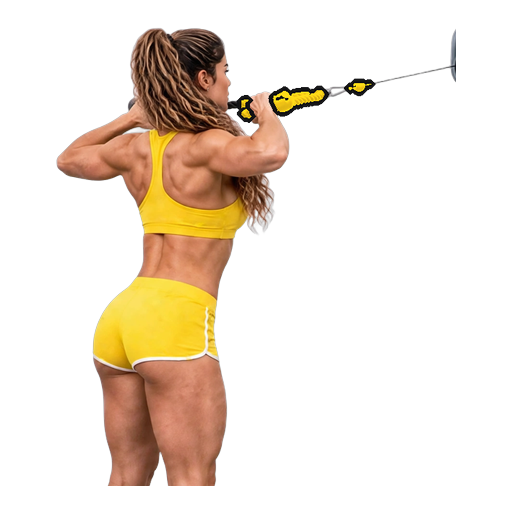
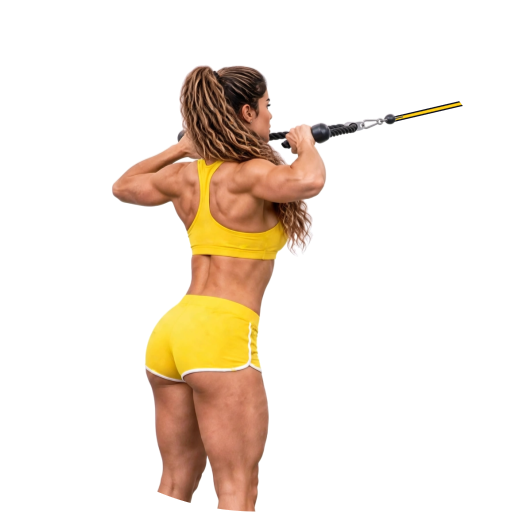
1.8.61 : Tirage facial refait, Développé militaire arrondi en bas
Claude-Session: https://claude.ai/code/session_01D2bERS9HLrYDfbmYJhTd1N

Changed region(s): [[0.0938, 0.0312, 0.9062, 1.0], [0.7812, 0.0625, 0.9062, 0.1562]]

diff --git a/sw.js b/sw.js
@@ -4,7 +4,7 @@
 // APP_VERSION doit être incrémenté à chaque release (en même temps que
 // manifest.json) : le navigateur ne réinstalle le service worker que si
 // le contenu de ce fichier change.
-const APP_VERSION = '1.8.60';
+const APP_VERSION = '1.8.61';
 // 1.7.64 (co-auteur : Claude) : production (…/suivi-fitness/) et test (…/suivi-fitness/dev/) sont sur le même
 // domaine et partagent le stockage des caches : chaque version nomme ses caches d'après son dossier et ne
 // supprime que les siens (plus les anciens caches sans dossier, d'avant la 1.7.64).

diff --git a/CHANGELOG.md b/CHANGELOG.md
@@ -7,6 +7,13 @@ et ce projet respecte [Semantic Versioning](https://semver.org/spec/v2.0.0.html)
 
 ---
 
+## [1.8.61] - 2026-11-19
+### 🎨 Icônes : Tirage facial refait, Développé militaire arrondi en bas (co-auteur : Claude)
+- Tirage facial : refait depuis la photo d'origine ; la corde garde sa texture, le câble est redessiné en jaune à liseré noir et s'arrête au cercle (plus d'ancrage qui dépasse à droite) ; athlète recentrée.
+- Développé militaire : le bas, coupé net au ventre, suit maintenant l'arrondi de la pastille ; haltères intacts.
+
+---
+
 ## [1.8.60] - 2026-11-19
 ### 🎨 Nouvelle icône de la Presse à cuisses (co-auteur : Claude)
 - Nouvelle photo (plan large, machine à disques) détourée : athlète par le modèle ISNet, fond blanc retiré entre les barres et sous la poignée, baskets blanches protégées, blanc mélangé au bord retiré.
